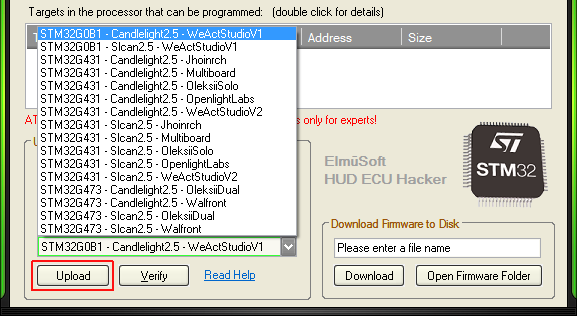
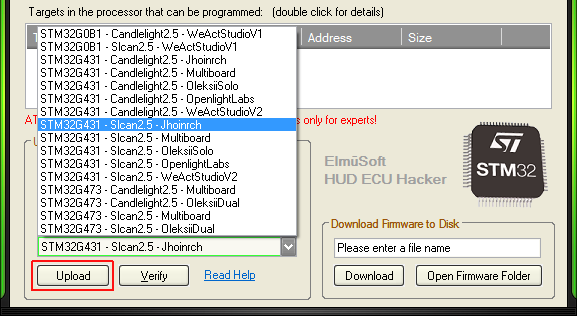
Updates

diff --git a/User & Developer Manual.htm b/User & Developer Manual.htm
@@ -183,12 +183,12 @@
     <tr>
         <td>USB Transfer Speed</td>
         <td>Candlelight uses the slow and misdesigned Geschwister Schneider protocol that sends always <b>80 bytes</b> over USB for any CAN FD packet no matter how many data bytes it has.</td>
-        <td>The ElmüSoft Candlelight protocol adds only a <b>2 byte header</b> to transfer a CAN packet as fast as possible over USB. Additionally multiple CAN packets are sent without USB overhead in one <b>USB blob</b>. ElmüSoft Candlelight is <span class="Error"> 3 times faster</span> than Geschwister Schneider. <nobr>See <a href="#Speed_Comparison">Speed Comparison</a></nobr></td>
+        <td>The ElmüSoft Candlelight protocol adds only a <b>2 byte header</b> to transfer a CAN packet as fast as possible over USB. Additionally multiple CAN packets are sent without USB overhead in one <b>USB blob</b>. ElmüSoft Candlelight is <span class="Error"> 3 times faster</span> than gs_usb. <nobr>See <a href="#Speed_Comparison">Speed Comparison</a></nobr></td>
     </tr>
     <tr>
         <td>Hardware CAN Filter</td>
         <td>Not implemented.<br>All received CAN packets are sent to the computer.</td>
-        <td>The user can define in up to 8 CAN filters which packets are sent to the computer. <nobr>See <a href="#Filter">Host Filter</a></nobr></td>
+        <td>The user can define in up to 8 CAN filters which packets are sent over USB to the computer. <nobr>See <a href="#Filter">Host Filter</a></nobr></td>
     </tr>
     <tr>
         <td>Busload Report</td>
@@ -232,13 +232,13 @@
     </tr>
     <tr>
         <td>Software Support</td>
-        <td>Any legacy software: SavvyCAN, gs_usb, can-utils, ttyACM, SocketCAN, python-can, etc. Legacy software also works with the new ElmüSoft firmware in legacy mode.</td>
+        <td>Any legacy software: SavvyCAN, gs_usb, <nobr>can-utils</nobr>, ttyACM, SocketCAN, <nobr>python-can</nobr>, etc. Legacy software also works with the new ElmüSoft firmware in legacy mode.</td>
         <td><a href="#HUD_ECU_Hacker">HUD ECU Hacker</a> and the C++, C# and Python <a href="#Demo_Application">Demo Applications</a> for Windows and Linux switch the adapter into ElmüSoft mode and fully support the new features.</td>
     </tr>
     <tr>
         <td>Firmware Update</td>
         <td>Extremely clumsy on Windows with the ugly ST Cube Programmer. Many legacy Github projects do not offer pre-compiled binary files for download.</td>
-        <td>Windows: Ultra easy firmware update with one click in the <a href="#Firmware_Updater">Firmware Programmer</a><br>Linux: <nobr>See <a href="#Compiling">Firmware Upload</a></nobr></td>
+        <td>Windows: Ultra easy firmware update with one click in the <a href="#Firmware_Updater">Firmware Programmer</a><br>Linux: Easy with <nobr>dfu-util</nobr>. <nobr>See <a href="#Compiling">Firmware Upload</a></nobr></td>
     </tr>
     <tr>
         <td>Sourcecode</td>
@@ -684,7 +684,7 @@
         <td rowspan="2"><a href="https://weactstudio.aliexpress.com/store/910567080/pages/all-items.html?SearchText=can+bus+analyzer" target="_blank">WeActSudio</a><br><nowrap>USB2CANFD v1</nowrap><br><span class="Red">deprecated</span></td>
         <td rowspan="2"><img src="Images/Photo.png" width="39" height="30" style="cursor:pointer;" onClick="ShowFullSize(this, 180, 'Images/Adapter WeActStudioV2.jpg')"></td>
         <td rowspan="2">16 MHz</td>
-        <td rowspan="2"><span class="Red">60 MHz</span></td>
+        <td rowspan="2" class="Red">60 MHz</td>
         <td rowspan="2">Single</td>
         <td rowspan="2">A1,A0</td>
         <td rowspan="2">OK</td>
@@ -711,7 +711,7 @@
     <tr>
         <td rowspan="2"><a href="https://www.aliexpress.com/w/wholesale-canable-makerbase.html" target="_blank">MKS<br>Makerbase</a></td>
         <td rowspan="2"><img src="Images/Photo.png" width="39" height="30" style="cursor:pointer;" onClick="ShowFullSize(this, 180, 'Images/Adapter MKS Makerbase.jpg')"></td>
-        <td rowspan="2"><span class="Red">None</span></td>
+        <td rowspan="2" class="Red">None</td>
         <td rowspan="2">160 MHz</td>
         <td rowspan="2">Single</td>
         <td rowspan="2">A0,A15</td>
@@ -725,7 +725,7 @@
     <tr>
         <td rowspan="2"><a href="https://www.amazon.com/stores/page/3984B7CC-592B-422B-8F53-9C4C23C7AEC9" target="_blank">DSD Tech</a><br>SH-C31A</td>
         <td rowspan="2"><img src="Images/Photo.png" width="39" height="30" style="cursor:pointer;" onClick="ShowFullSize(this, 180, 'Images/Adapter DSD-Tech 31A.jpg')"></td>
-        <td rowspan="2"><span class="Red">None</span></td>
+        <td rowspan="2" class="Red">None</td>
         <td rowspan="2">160 MHz</td>
         <td rowspan="2">Single</td>
         <td rowspan="2">A0,A15</td>
@@ -739,11 +739,11 @@
     <tr>
         <td rowspan="2"><a href="https://www.amazon.com/stores/page/3984B7CC-592B-422B-8F53-9C4C23C7AEC9" target="_blank">DSD Tech</a><br>SH-C31G</td>
         <td rowspan="2"><img src="Images/Photo.png" width="39" height="30" style="cursor:pointer;" onClick="ShowFullSize(this, 180, 'Images/Adapter DSD-Tech 31G.jpg')"></td>
-        <td rowspan="2"><span class="Red">None</span></td>
+        <td rowspan="2" class="Red">None</td>
         <td rowspan="2">160 MHz</td>
         <td rowspan="2">Single</td>
         <td rowspan="2">A0,A15</td>
-        <td rowspan="2">Bad</td>
+        <td rowspan="2" class="Red">Worst</td>
         <td rowspan="2">TJA 1051<br>5 Mbaud<br>isolated</td>
         <td rowspan="2">$25</td>
         <td>STM32G<span class="Green">431</span>-Slcan2.5-Multiboard.dfu</td>
@@ -781,7 +781,7 @@
     <tr>
         <td rowspan="2"><a href="https://www.amazon.com/stores/page/30F46664-11EA-472C-988F-83CF9CBF201D" target="_blank">Walfront</a> with<br> 431 processor<br><span class="Red">naked board</span></td>
         <td rowspan="2"><img src="Images/Photo.png" width="39" height="30" style="cursor:pointer;" onClick="ShowFullSize(this, 180, 'Images/Adapter Walfront.jpg')"></td>
-        <td rowspan="2"><span class="Red">None</span></td>
+        <td rowspan="2" class="Red">None</td>
         <td rowspan="2">160 MHz</td>
         <td rowspan="2">Single</td>
         <td rowspan="2">A0,A15</td>
@@ -813,7 +813,7 @@
         <td rowspan="2">160 MHz</td>
         <td rowspan="2">Single</td>
         <td rowspan="2">A5,A6</td>
-        <td rowspan="2">Worst</td>
+        <td rowspan="2" class="Red">Worst</td>
         <td rowspan="2">TJA 1044<br>5 Mbaud<br>isolated</td>
         <td rowspan="2">$20</td>
         <td>STM32G<span class="Green">431</span>-Slcan2.5-OleksiiSolo.dfu</td>
@@ -827,7 +827,7 @@
         <td rowspan="2">160 MHz</td>
         <td rowspan="2">Dual</td>
         <td rowspan="2">A5,A6<br>A3,A4</td>
-        <td rowspan="2">Worst</td>
+        <td rowspan="2" class="Red">Worst</td>
         <td rowspan="2">TJA 1044<br>5 Mbaud<br>isolated</td>
         <td rowspan="2">$25</td>
         <td>STM32G<span class="Blue">473</span>-Slcan2.5-OleksiiDual.dfu</td>
@@ -837,13 +837,13 @@
     <tr>
         <td rowspan="2"><a href="https://openlightlabs.com/collections/frontpage/products/canable-2-0" target="_blank">Openlight Labs</a><br><span class="Red">sold out</span></td>
         <td rowspan="2"><img src="Images/Photo.png" width="39" height="30" style="cursor:pointer;" onClick="ShowFullSize(this, 180, 'Images/Adapter Openlightlabs.jpg')"></td>
-        <td rowspan="2"><span class="Red">None</span></td>
+        <td rowspan="2" class="Red">None</td>
         <td rowspan="2">160 MHz</td>
         <td rowspan="2">Single</td>
         <td rowspan="2">B11,A15</td>
         <td rowspan="2">Bad</td>
         <td rowspan="2">TJA 1051<br>5 Mbaud<br><span class="Red">not isolated</span></td>
-        <td rowspan="2"><span class="Red">$35</span></td>
+        <td rowspan="2" class="Red">$35</td>
         <td>STM32G<span class="Green">431</span>-Slcan2.5-OpenlightLabs.dfu</td>
     </tr>
     <tr><td>STM32G<span class="Green">431</span>-Candlelight2.5-OpenlightLabs.dfu</td></tr>
@@ -852,9 +852,9 @@
         <td rowspan="2"><a href="https://www.amazon.com/BIGTREETECH-Supports-Connection-Interface-Raspberry/dp/B0BVQQ82SP" target="_blank">BigTreeTech</a><br><nowrap>U2C v2</nowrap><br>for 3D printer</td>
         <td rowspan="2"><img src="Images/Photo.png" width="39" height="30" style="cursor:pointer;" onClick="ShowFullSize(this, 180, 'Images/Adapter BigTreeTech U2C.jpg')"></td>
         <td rowspan="2">8 MHz</td>
-        <td rowspan="2"><span class="Red">60 MHz</span></td>
+        <td rowspan="2" class="Red">60 MHz</td>
         <td rowspan="2">Single</td>
-        <td rowspan="2"><span class="Red">No Rx,<br>Tx LED's</span></td>
+        <td rowspan="2" class="Red">No Rx,<br>Tx LED's</td>
         <td rowspan="2">OK</td>
         <td rowspan="2">TJA 1050<br><span class="Red">1 Mbaud<br>not isolated</span></td>
         <td rowspan="2">$25</td>
@@ -868,7 +868,7 @@
 
 <div><b>BOOT0 Pin = OK</b> means that the hardware design does not require to disable pin BOOT0.</div>
 <div><b>BOOT0 Pin = Bad</b> means wrong design: pin BOOT0 must be disabled to avoid that the board goes into boot mode alone.</div>
-<div><b>BOOT0 Pin = Worst</b> means worst design: the board does not work at all if pin BOOT0 is not disabled.</div>
+<div><b>BOOT0 Pin = Worst</b> means worst design: the board does not work at all if pin BOOT0 is not disabled by firmware.</div>
 <p>
 <div><span class="Error">IMPORTANT:</span> All firmware DFU files are different.</div>
 <div>Only one Slcan firmware and only one Candlelight firmware file matches your adapter.</div>
@@ -1203,6 +1203,7 @@
 <div>If a samplepoint cannot be matched exactly, it shows a <b>warning</b> and uses the nearest value that is possible.</div>
 <div>If a baudrate cannot be matched it shows an <b>error</b>.</div>
 
+<a name="Arbitration"></a>
 <p>
 <img src="Images/CAN FD Arbitration.png" alt="CAN FD Arbitration / Data phase" width="746" height="209">
 
@@ -1289,7 +1290,7 @@
     <tr><td><span class='TimeBk'>21:20:18.738</span><span class='InfoBold'>Send Packet</span></td></tr>
     <tr><td><span class='TimeBk'>21:20:18.738</span><span class='TxData'>14A90022: 01 02 03 04 05 06 07 08</span><span class='DebugDark'>             &lt;—— this packet was not acknowledged</span></td></tr>
     <tr><td><span class='TimeBk'>21:20:21.216</span><span class='RxDataInvalid'>Bus Passive, No ACK received, Tx Errors: 128</span></td></tr>
-    <tr><td><span class='TimeBk'>21:20:24.212</span><span class='RxDataInvalid'>Bus Passive, No ACK received, Tx Errors: 128</span><span class='DebugDark'>  &lt;—— same error repeated every 3 seconds</span></td></tr>
+    <tr><td><span class='TimeBk'>21:20:24.212</span><span class='RxDataInvalid'>Bus Passive, No ACK received, Tx Errors: 128</span><span class='DebugDark'>  &lt;—— same error reported every 3 seconds</span></td></tr>
     <tr><td><span class='TimeBk'>21:20:27.208</span><span class='RxDataInvalid'>Bus Passive, No ACK received, Tx Errors: 128</span></td></tr>
     </table>
 </div>
@@ -1306,8 +1307,8 @@
     <li><div><span class="Error">Bus Off</span> (more than 248 errors, if data collision detected)</div>
 </ol>
 <p>
-<div>In the <b>arbitration phase</b> it is allowed that multiple controllers send at the same time. One of them will win the arbitration.</div>
-<div>But in the <b>data phase</b> there must be only one controller sending data.</div>
+<div>In the <a href="#Arbitration">arbitration phase</a> it is allowed that multiple controllers send at the same time. One of them will win the arbitration.</div>
+<div>But in the <a href="#Arbitration">data phase</a> there must be only one controller sending data.</div>
 <div>If the processor detects a case of a severe data corruption it immediately stops transmitting and goes into <b>Bus Off</b> state.</div>
 <div>Bus Off is a severe error that you can create by sending packets between two adapters configured for different baudrates.</div>
 <p>

diff --git a/SampleApplication C++/Source/Candlelight/Linux/OsLibrary.cpp b/SampleApplication C++/Source/Candlelight/Linux/OsLibrary.cpp
@@ -190,10 +190,10 @@ void OsLibrary::Close()
 // ===================================== CTRL Pipe =====================================
 
 // Send SETUP packet and optionally additional data bytes as IN or OUT transfer
-uint32_t OsLibrary::ControlTransfer(kSetup* pk_Setup, uint8_t* u8_Buffer, uint32_t* pu32_Transferred)
+uint32_t OsLibrary::ControlTransfer(kSetup* pk_Setup, void* p_Data, uint32_t* pu32_Transferred)
 {
     int s32_Transferred = libusb_control_transfer(mpi_DevHandle, pk_Setup->bRequestType, pk_Setup->bRequest,
-                                                  pk_Setup->wValue, pk_Setup->wIndex, u8_Buffer, pk_Setup->wLength, PIPE_TIMEOUT);
+                                                  pk_Setup->wValue, pk_Setup->wIndex, (uint8_t*)p_Data, pk_Setup->wLength, PIPE_TIMEOUT);
     if (s32_Transferred < 0)
         return (uint32_t)s32_Transferred; // error
 

diff --git a/SampleApplication C++/Source/Candlelight/Linux/OsLibrary.h b/SampleApplication C++/Source/Candlelight/Linux/OsLibrary.h
@@ -48,7 +48,7 @@ public:
     uint32_t    StartPipes();
     void        Close();
     // USB transfer
-    uint32_t    ControlTransfer(kSetup* pk_Setup, uint8_t* u8_Buffer, uint32_t* pu32_Transferred);
+    uint32_t    ControlTransfer(kSetup* pk_Setup, void* p_Data, uint32_t* pu32_Transferred);
     uint32_t    ReadPipeIn(uint32_t u32_Timeout, kUsbInPacket* pk_UsbInPacket);
     uint32_t    WritePipeOut(uint8_t* u8_TxData, uint32_t u32_TxLen);
     // -------------------------
